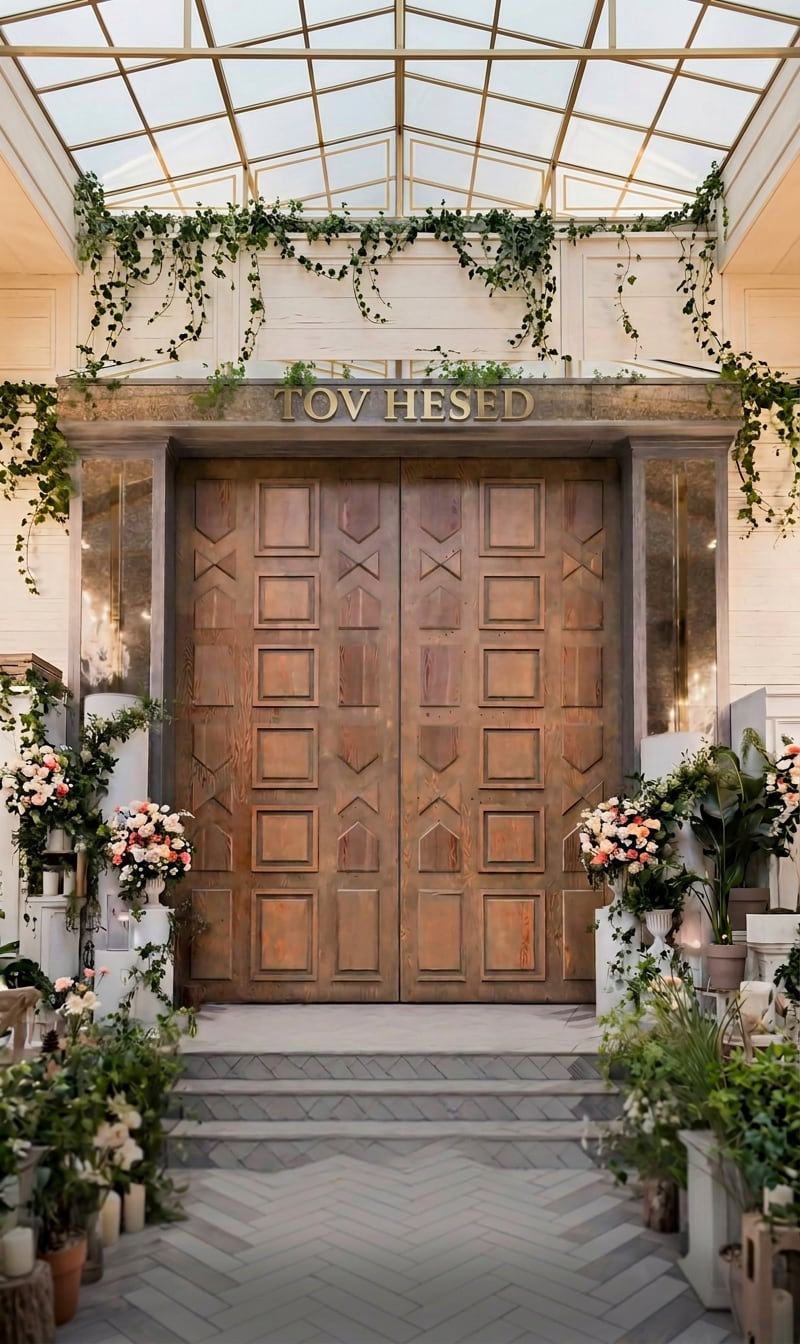
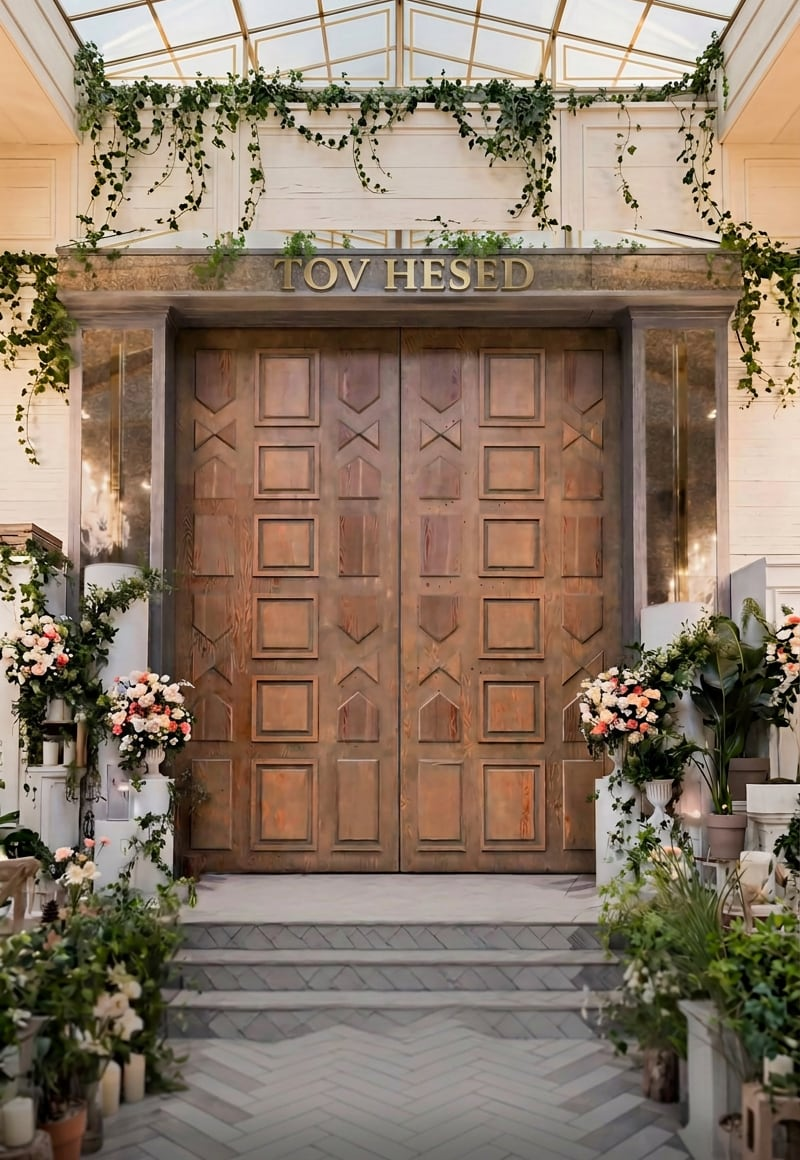
fix: 첫 화면 문을 키우고 위쪽 유리천장·아이비 길이를 줄임
문이 너무 멀리 물러나 보이고 문 위 유리천장·덩굴이 길었다.

- 대문 사진 위 130px / 아래 54px 을 잘라냈다. 세로가 짧아지면 화면 높이에
  맞추느라 문이 커진다 — 문짝 폭 148px → 171px (바꾸기 전 사진 187px 과
  지금 사진 148px 의 중간). 위쪽 길이는 440px → 310px
- 문 뒤 밝은 공간이 문짝보다 미세하게 커서 소수점 좌표가 반올림되는 자리에
  흰 테두리로 새어 보이던 것을 1px 안쪽으로 넣어 막았다. 덮이는 1px 은
  뒤에 깔린 닫힌 문 사진이라 티가 나지 않는다
- 자르는 양은 tools/build-assets.mjs 의 CUT_TOP·CUT_BOT 로 조정한다

diff --git a/index.html b/index.html
@@ -25,11 +25,11 @@
 <link rel="preload" as="image" href="assets/hero/door-r.jpg">
 <link rel="preload" as="image" href="assets/hero/gate-bg.jpg">
 <style>
-/* 실측 문 좌표 (assets/origin/door-4.png — 800x1344 기준 %) */
+/* 문 좌표 — assets/origin/door-4.png 를 위 130 / 아래 54 잘라낸 800x1160 기준 % (tools/build-assets.mjs 가 출력) */
 :root{
-  --img-w: 800; --img-h: 1344;
+  --img-w: 800; --img-h: 1160;
   --door-l: 20.625%;  --door-r: 79.125%;
-  --door-t: 32.738%;  --door-b: 74.702%;
+  --door-t: 26.724%;  --door-b: 75.345%;
   --door-c: 50.000%;
   --ink:#3a352f; --paper:#fbf9f6;
   --p:0;            /* 스크롤 진행률 0~1 */
@@ -73,12 +73,15 @@ body{
 .doors{position:absolute; inset:0; perspective:1500px; perspective-origin:50% 42%}
 .photo__frame{position:absolute; inset:0; width:100%; height:100%; object-fit:cover; display:block}
 
-/* 문 뒤에서 새어나오는 빛 */
+/* 문 뒤에서 새어나오는 빛.
+   문짝과 정확히 같은 크기로 두면 소수점 좌표가 반올림되는 자리에서 밝은 배경이
+   문짝 가장자리 밖으로 1px 새어 흰 테두리로 보인다 → 1px 안쪽으로 넣는다.
+   덮이는 1px 은 뒤에 깔린 닫힌 문 사진이라 티가 나지 않는다 */
 .gate{
   position:absolute;
-  left:var(--door-l); top:var(--door-t);
-  width:calc(var(--door-r) - var(--door-l));
-  height:calc(var(--door-b) - var(--door-t));
+  left:calc(var(--door-l) + 1px); top:calc(var(--door-t) + 1px);
+  width:calc(var(--door-r) - var(--door-l) - 2px);
+  height:calc(var(--door-b) - var(--door-t) - 2px);
   background:#fff url(assets/hero/gate-bg.jpg) center/cover no-repeat;
   overflow:hidden;
 }

diff --git a/README.md b/README.md
@@ -75,15 +75,15 @@ p 0.55~1.00    사진 + 날짜가 아래에서 위로 상승
 
 ### 문짝 위치가 문틀과 어긋날 때
 
-`index.html` 의 `:root` 값만 조정. `assets/origin/door-4.png`(800×1344) 기준 백분율.
+`index.html` 의 `:root` 값만 조정. `assets/origin/door-4.png` 를 위 130 / 아래 54 잘라낸 800×1160 기준 백분율 — 자르는 양은 `tools/build-assets.mjs` 의 `CUT_TOP`·`CUT_BOT`, 잘라낸 뒤 값은 그 스크립트가 출력한다.
 
 소스를 더 크게 받으려는 시도 = 무의미. Gemini 는 1400×2352 를 요청해도 800×1344 로만 출력(2회 실측). 폰에서 2.2배 확대되므로 나뭇결이 다소 무르다.
 
 ```css
 --door-l: 20.625%;  /* 문 왼쪽 끝 */
 --door-r: 79.125%;  /* 문 오른쪽 끝 */
---door-t: 32.738%;  /* 문 위쪽 */
---door-b: 74.702%;  /* 문 아래쪽 */
+--door-t: 26.724%;  /* 문 위쪽 */
+--door-b: 75.345%;  /* 문 아래쪽 */
 --door-c: 50.000%;  /* 두 문짝 분할선 */
 --shift-x:  0.35%;  /* 첫 화면 좌우 이동. +면 오른쪽 */
 ```
